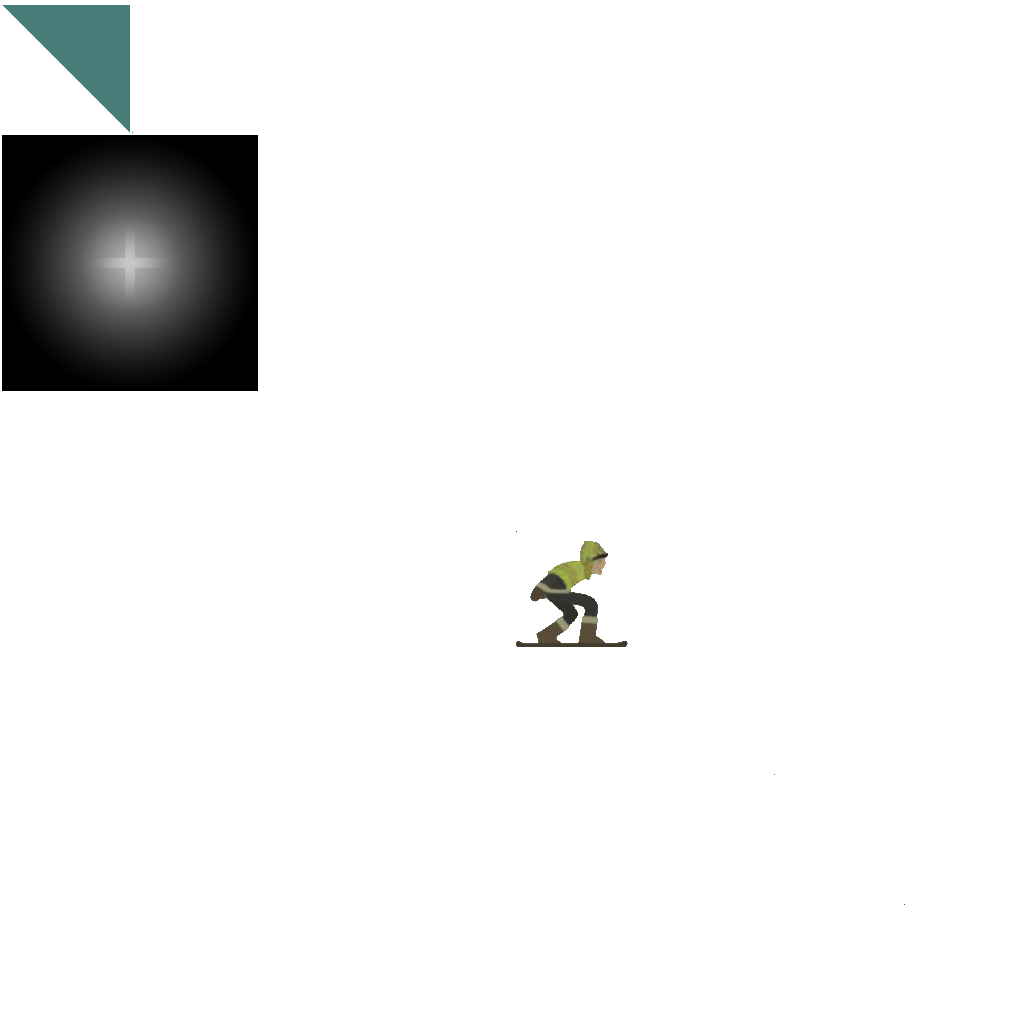
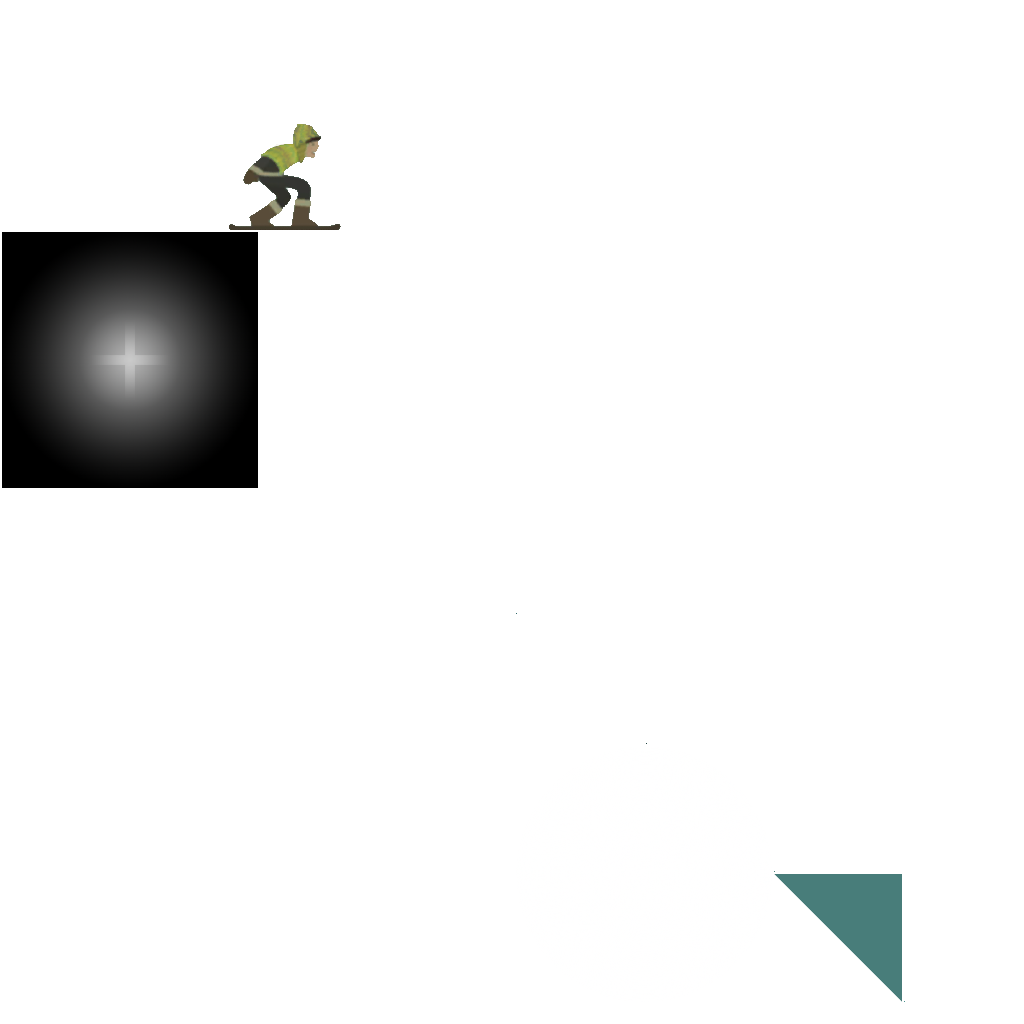
added gui and jump, added action for correct gravity and trigger for jump by clicking anywhere on the gui

Changed region(s): [[0.0, 0.0, 0.3125, 0.5], [0.75, 0.8438, 0.9062, 0.9688], [0.5, 0.5312, 0.5938, 0.6562]]

diff --git a/p/core/src/ardash/lato/actors/Performer.java b/p/core/src/ardash/lato/actors/Performer.java
@@ -1,24 +1,41 @@
 package ardash.lato.actors;
 
-import com.badlogic.gdx.Gdx;
 import com.badlogic.gdx.graphics.Color;
+import com.badlogic.gdx.math.Interpolation;
 import com.badlogic.gdx.math.Vector2;
+import com.badlogic.gdx.scenes.scene2d.Action;
 import com.badlogic.gdx.scenes.scene2d.Group;
 import com.badlogic.gdx.scenes.scene2d.actions.Actions;
+import com.badlogic.gdx.scenes.scene2d.actions.MoveByAction;
+import com.badlogic.gdx.scenes.scene2d.actions.ParallelAction;
+import com.badlogic.gdx.scenes.scene2d.actions.RepeatAction;
+import com.badlogic.gdx.scenes.scene2d.actions.SequenceAction;
 import com.badlogic.gdx.scenes.scene2d.ui.Image;
 
 import ardash.lato.Assets.SceneTexture;
-import ardash.lato.weather.AmbientColorChangeListener;
+import ardash.lato.actions.MoreActions;
 import ardash.lato.LatoStage;
+import ardash.lato.weather.AmbientColorChangeListener;
 
 public class Performer extends Group implements StageAccessor, AmbientColorChangeListener {
 
+	private static final float ROTATION_SPEED = 180f; // TODO (deg/sec) this could be different for different performers or boards
 	private static final float PERFORMER_WIDTH = 1.85f;
 	private static final float MIN_SPEED = 9.3f;
 	private static final float MAX_SPEED = 19.3f;
 	private float speed = 0f; // speed in m/s
+	private boolean isInAir = false;
+	private boolean isUserInputDown = false;
 //	private float direction = 0f; // current rotation (direction) in degrees
-	private Vector2 velocity = new Vector2();
+	private Vector2 velocity = new Vector2(); // this is only here to safe new-calls
+//	private float gravity = 9.807f; // m/s/s
+	private ParallelAction jumpAction;
+	
+	/**
+	 * vertical speed is intentionally not in a vector with 'speed' because the velocity is handled differently
+	 * depending on if actor is in air or on ground. Physics on ground are not realistic to improve gameplay.
+	 */
+	private float vspeed = 0f; // speed in m/s
 	
 	/**
 	 * A spot in front of the actor, where he wants the camera to look at. Usually a few meters in front of the actor.
@@ -39,40 +56,64 @@ public class Performer extends Group implements StageAccessor, AmbientColorChang
 	@Override
 	public void act(float delta) {
 		super.act(delta);
-//		moveBy(0, -0.01f); // gravity
 		
-		// accelerate
-		// TODO only if on ground
-		final float angleToGround = 360f - velocity.angle(); // 0 or 360 is horizontal, 90 is downward, 45 is ramp down forward
-//		System.out.println(angleToGround);
-		if (angleToGround > 0)
+		// accelerate on ground
+		if (! isInAir)
 		{
-			if (angleToGround < 20f) // TODO adjust here. everything above this angle speeds up
+			final float angleToGround = 360f - velocity.angle(); // 0 or 360 is horizontal, 90 is downward, 45 is ramp down forward
+//			System.out.println(angleToGround);
+			if (angleToGround > 0)
 			{
-				setSpeed(speed-(1.1f*delta));
-			}
-			else if (angleToGround < 90f)
-			{
-				setSpeed(speed+(1.1f*delta));
-			}
-			else
-			{
-				setSpeed(speed-(1.1f*delta));
+				if (angleToGround < 20f) // TODO adjust here. everything above this angle speeds up
+				{
+					setSpeed(speed-(1.1f*delta));
+				}
+				else if (angleToGround < 90f)
+				{
+					setSpeed(speed+(1.1f*delta));
+				}
+				else
+				{
+					setSpeed(speed-(1.1f*delta));
+				}
 			}
 		}
 		
 //		System.out.println(Gdx.graphics.getFramesPerSecond());
 //		System.out.println(speed);
+//		System.out.println(getRotation());
 		
-		// apply the speed into a direction of movement
-		velocity.set(1,1).setLength(speed).setAngle(getRotation());
+		// apply the speed into a direction of movement, which is the direction of the terrain, or straight forward (angle 0) when in air
+		velocity.set(1,1).setLength(speed).setAngle(isInAir ? 0f : getRotation());
 		final float deltaX = velocity.x;
 		moveBy(deltaX*delta, 0); // movement is product of time-delta and speed-delta
 		
 		float heightUnderActor = ((LatoStage)getStage()).getWaveDrawer().getHeightAt(getX()+(PERFORMER_WIDTH/2f));
 		float heightOfMe = getY();
-		moveBy(0, - (getY() - heightUnderActor));
-		setRotation( ((LatoStage)getStage()).getWaveDrawer().getAngleAtX(getX()+(PERFORMER_WIDTH/2f)));
+		// set the height of the terrain under the actor if not in air
+		if (! isInAir)
+		{
+			setOriginY(0);
+			moveBy(0, - (getY() - heightUnderActor));
+			setRotation( ((LatoStage)getStage()).getWaveDrawer().getAngleAtX(getX()+(PERFORMER_WIDTH/2f)));
+		}
+		else
+		{
+			setOriginY(PERFORMER_WIDTH/2f);
+			// if jumping or otherwise flying just apply a bit gravity
+//			moveBy(0, - 0.2f);
+			if (heightUnderActor > heightOfMe) // check if hit the ground
+			{
+				land();
+			}
+			
+			// if touch down rotate counter clockwise, otherwise rotate towards ground
+			if (isUserInputDown)
+			{
+				rotateBy(ROTATION_SPEED*delta);
+//				addAction(Actions.rotateBy(2f));
+			}
+		}
 		camSpot.set(getX()+15f, getY());
 	}
 
@@ -100,7 +141,41 @@ public class Performer extends Group implements StageAccessor, AmbientColorChang
 		getChild(0).addAction(Actions.color(target, seconds));
 		
 	}
+
+	/**
+	 * handle the only possible user input (on the game stage): touch anywhere on the screen
+	 * @param down touch up or touch down
+	 */
+	public void userInput(boolean touchDown) {
+		isUserInputDown = touchDown;
+		if (!isInAir)
+		{
+			if (touchDown)
+			{
+				jump();
+			}
+		}
+		
+	}
+
+	private void jump() {
+		isInAir  = true;
+		final MoveByAction jumpForce = Actions.moveBy(0, 25, 1f, Interpolation.fastSlow);
+//		final MoveByAction accelleratedFall = Actions.moveBy(0, -15f*3, 1f*3, Interpolation.slowFast); // increasing speed due to gravity
+//		final RepeatAction constantFall = Actions.forever(Actions.moveBy(0, -15f*3, 1f*3));
+//		final SequenceAction fall = Actions.sequence(accelleratedFall,constantFall);
+		final GravityAction gravity = MoreActions.gravity();
+		jumpAction = Actions.parallel(jumpForce, gravity );
+		addAction(jumpAction);
+		
+	}
 	
-	
+	/** touching down after a jump or fall*/
+	private void land() {
+		isInAir = false;
+		removeAction(jumpAction); // ensure no more up or down (gravity) is applied
+	}
+
+
 
 }

diff --git a/p/core/src/ardash/lato/GameScreen.java b/p/core/src/ardash/lato/GameScreen.java
@@ -5,12 +5,19 @@ import com.badlogic.gdx.Screen;
 import com.badlogic.gdx.graphics.Color;
 import com.badlogic.gdx.graphics.GL20;
 import com.badlogic.gdx.graphics.Texture;
+import com.badlogic.gdx.graphics.g2d.BitmapFont;
+import com.badlogic.gdx.scenes.scene2d.InputEvent;
+import com.badlogic.gdx.scenes.scene2d.InputListener;
 import com.badlogic.gdx.scenes.scene2d.Touchable;
 import com.badlogic.gdx.scenes.scene2d.actions.Actions;
 import com.badlogic.gdx.scenes.scene2d.ui.Image;
+import com.badlogic.gdx.scenes.scene2d.ui.Label;
+import com.badlogic.gdx.scenes.scene2d.ui.Label.LabelStyle;
+import com.badlogic.gdx.scenes.scene2d.ui.Table;
 import com.badlogic.gdx.utils.viewport.ExtendViewport;
 import com.github.czyzby.kiwi.util.gdx.asset.Disposables;
 import com.github.czyzby.kiwi.util.gdx.scene2d.Actors;
+import com.github.czyzby.kiwi.util.gdx.viewport.Viewports;
 
 import ardash.lato.Assets.SceneTexture;
 import ardash.lato.actors.FlarePlane;
@@ -44,8 +51,10 @@ public class GameScreen implements Screen {
 	public LatoStage backStage;
 	public LatoStage stage;
 	public LatoStage frontStage;
+	public LatoStage guiStage;
 	private RayHandler rayHandler;
 	public FlarePlane flarePlane;
+	private Performer performer;
 
 	public GameScreen(GameManager gm) {
 		this.gm = gm;
@@ -62,6 +71,7 @@ public class GameScreen implements Screen {
 		stage = new LatoStage(new ExtendViewport(WORLD_WIDTH, WORLD_HEIGHT), this);
 		frontStage = new LatoStage(new ExtendViewport(WORLD_WIDTH, WORLD_HEIGHT), this);
 		CURRENT_WORLD_WIDTH = backStage.getViewport().getWorldWidth();
+		guiStage = new LatoStage(Viewports.getDensityAwareViewport(), this);
 //		stage.setDebugAll(true);
 //		backStage.setDebugAll(true);
 //		frontStage.setDebugAll(true);
@@ -142,14 +152,13 @@ public class GameScreen implements Screen {
 		stage.setWaveDrawer(hl);
 		weather.addAmbientColourChangeListener(hl);
 		
-		// add performer
-		Performer p = new Performer();
-		stage.addActor(p);
-		p.init();
+		performer = new Performer();
+		stage.addActor(performer);
+		performer.init();
 //		p.moveBy(4*1.8f, 10f);
-		p.moveBy(8*1.8f, 10f); // tmp becasue no starting groudn yet
-		stage.setPerformer(p); // attach the camera to him
-		weather.addAmbientColourChangeListener(p);
+		performer.moveBy(8*1.8f, 10f); // tmp becasue no starting groudn yet
+		stage.setPerformer(performer); // attach the camera to him
+		weather.addAmbientColourChangeListener(performer);
 		
 //		// add ambient light overlay
 //		Image fog = new Image(assets.getSTexture(SceneTexture.FOG_PIX));
@@ -173,8 +182,54 @@ public class GameScreen implements Screen {
 //		frontStage.addActor(flarePlane);
 //		flarePlane.init();
 
+		buildGui();
+	}
 
+	private void buildGui() {
+		Gdx.input.setInputProcessor(guiStage);
+		guiStage.setDebugAll(true);
+		Image img = new Image(assets.getSTexture(SceneTexture.PERFORMER));
+//		guiStage.addActor(img);
+		final LabelStyle lblStyle = new LabelStyle();
+		lblStyle.font = new BitmapFont();
+		Label fps = new Label("fps", lblStyle) {
+			@Override
+			public void act(float delta) {
+				super.act(delta);
+				setText("fps: "+ Gdx.graphics.getFramesPerSecond());
+			}
+		};
+		Table mainTable = new Table();
+		mainTable.setTouchable(Touchable.enabled);
+		mainTable.addListener(new InputListener() {
+			@Override
+			public boolean touchDown(InputEvent event, float x, float y, int pointer, int button) {
+				performer.userInput(true);
+				return true;
+			}
+			@Override
+			public void touchUp(InputEvent event, float x, float y, int pointer, int button) {
+				performer.userInput(false);
+				super.touchUp(event, x, y, pointer, button);
+			}
+		});
+		guiStage.addActor(mainTable);
+		mainTable.setFillParent(true);
+		mainTable.row().colspan(3).expandX().fillX();
+		mainTable.add(fps);
+		mainTable.row().expandY();
+//		mainTable.add(img);
+		mainTable.add();
+		mainTable.row();
 		
+		Image pause = new Image(assets.getSTexture(SceneTexture.PAUSE));
+		pause.setColor(Color.WHITE.cpy());
+		pause.getColor().a = .8f;
+//		pause.setSize(10f, 10f);
+		mainTable.add(pause).height(40f).width(40f).left();
+//		fps.
+
+//		Actors.centerActor(mainTable);
 	}
 
 	@Override
@@ -186,17 +241,15 @@ public class GameScreen implements Screen {
     	Gdx.gl20.glBlendFunc(GL20.GL_ONE_MINUS_DST_COLOR, GL20.GL_ONE);
     	Gdx.gl20.glBlendFunc(GL20.GL_ZERO, GL20.GL_ZERO);
 
-//    	weather.act(delta);
     	backStage.act(delta);
     	stage.act(delta);
     	frontStage.act(delta);
-    	
-    	// move camera before drawing
-//    	stage.getCamera().translate(0.1f, -0.15f, 0);
+    	guiStage.act(delta);
     	
     	backStage.draw();
     	stage.draw();
     	frontStage.draw();
+    	guiStage.draw();
     	
 //    	World world = new World(new Vector2(), false);
 //		// add light
@@ -219,6 +272,7 @@ public class GameScreen implements Screen {
 		stage.getViewport().update(width, height, false);
 		frontStage.getViewport().update(width, height, false);
 		frontStage.getCamera().position.set(0f, 0f, 0f); // this cam is centered so we can zoom in/out without moving the sun away from center
+		guiStage.getViewport().update(width, height, true);
 	}
 
 	@Override
@@ -241,7 +295,7 @@ public class GameScreen implements Screen {
 
 	@Override
 	public void dispose() {
-		Disposables.gracefullyDisposeOf(backStage, stage);
+		Disposables.gracefullyDisposeOf(backStage, stage, frontStage, guiStage);
 	}
 
 }

diff --git a/p/core/src/ardash/lato/actors/GravityAction.java b/p/core/src/ardash/lato/actors/GravityAction.java
@@ -1,0 +1,28 @@
+package ardash.lato.actors;
+
+import com.badlogic.gdx.scenes.scene2d.Action;
+
+/**
+ * Similar to MoveByAction, but runs infinitely and has an acceleration.
+ * This doe not add a gravity to Actors. It only adds the relative movement that loos like gravity.
+ * So this cannot be constantly added to and Actor but rather has the be re-added for each jump.
+ *
+ */
+public class GravityAction extends Action{
+	static final float gravity = 9.80665f; // m/s/s
+	float vspeed = 0;
+	
+	@Override
+	public void reset() {
+		super.reset();
+		vspeed = 0;
+	}
+
+	@Override
+	public boolean act(float delta) {
+		vspeed += + gravity*delta;
+		target.moveBy (0, -vspeed * delta);
+		return false; // infinite (until removed from actor)
+	}
+
+}

diff --git a/p/core/src/ardash/lato/terrain/Downer.java b/p/core/src/ardash/lato/terrain/Downer.java
@@ -11,7 +11,7 @@ public class Downer extends TerrainSegList {
 	static final float MIN_WAY_FORWARD = 20f;
 	static final float MAX_WAY_FORWARD = 140f;
 	static final float MIN_WAY_DOWNWARD = 11f;
-	static final float MAX_WAY_DOWNWARD = 170f;
+	static final float MAX_WAY_DOWNWARD = 70f;
 	static final Vector2 currentRandomVector= new Vector2();
 	static final Vector2 prevRandomVector= new Vector2(); // needed to calculate the angle
 	static final float MIN_WAY_STRAIGHT = 0f;

diff --git a/p/core/src/ardash/lato/Assets.java b/p/core/src/ardash/lato/Assets.java
@@ -11,7 +11,7 @@ import net.dermetfan.gdx.assets.AnnotationAssetManager.Asset;
 public class Assets {
 	
 	public enum SceneTexture{
-			MOUNT,MOUNT_PIX,MOUNT_PIX2, MOUNTAINFOG, FOG_PIX, PERFORMER, SUN_SHAPE, GLOW, FLARE, ADD_FLARE;
+			MOUNT,MOUNT_PIX,MOUNT_PIX2, MOUNTAINFOG, FOG_PIX, PERFORMER, SUN_SHAPE, GLOW, FLARE, ADD_FLARE, PAUSE;
 	}
 	public final AnnotationAssetManager manager = new AnnotationAssetManager(new InternalFileHandleResolver());
 	

diff --git a/p/core/src/ardash/lato/weather/WeatherProvider.java b/p/core/src/ardash/lato/weather/WeatherProvider.java
@@ -113,7 +113,7 @@ public class WeatherProvider extends Actor{
 		for (SODChangeListener listener : sodChangeListeners) {
 			listener.onSODChange(currentSOD, hourOfDay, delta, percentOfDayOver);
 		}
-		System.out.println(String.format("SOD: %+10.4f", currentTOD() ));
+//		System.out.println(String.format("SOD: %+10.4f", currentTOD() ));
 	}
 
 	/**

diff --git a/p/core/src/ardash/lato/actions/MoreActions.java b/p/core/src/ardash/lato/actions/MoreActions.java
@@ -1,0 +1,14 @@
+package ardash.lato.actions;
+
+import com.badlogic.gdx.scenes.scene2d.actions.Actions;
+
+import ardash.lato.actors.GravityAction;
+
+public class MoreActions extends Actions{
+	
+	static public GravityAction gravity () {
+		GravityAction action = action(GravityAction.class);
+		return action;
+	}
+
+}
